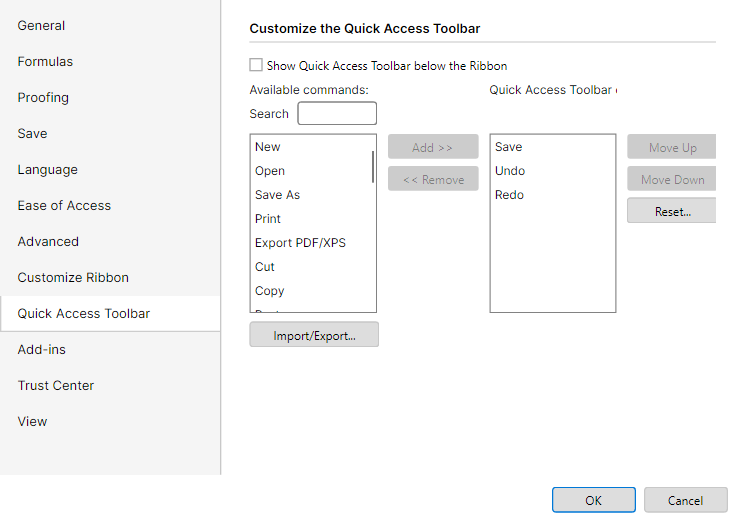
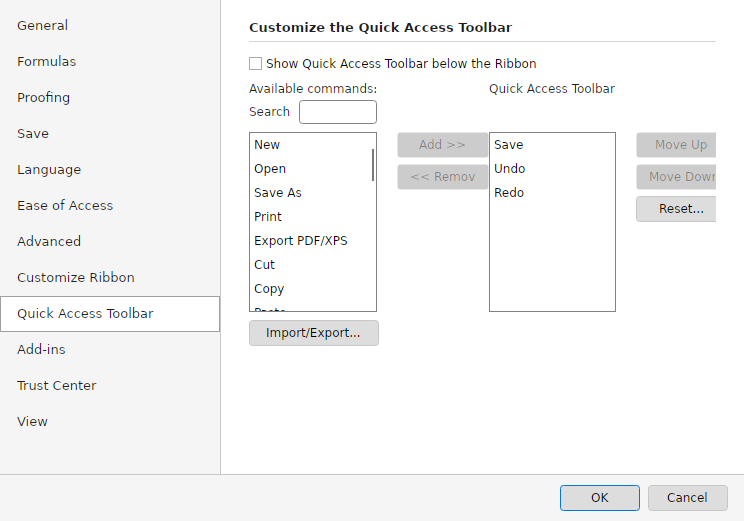
Capture FreeX Options QAT parity evidence

diff --git a/docs/parity/dialog-visual-evidence-summary.md b/docs/parity/dialog-visual-evidence-summary.md
@@ -63,7 +63,6 @@ Outliers are ranked by a deterministic triage score: normalized 32x32 ARGB sampl
 | Surface id | WPF logical size | Avalonia logical size | Raw PNG sizes | Bucket | Evidence flag | Score | Sample delta | Luma delta | Non-bg delta |
 | --- | ---: | ---: | --- | --- | --- | ---: | ---: | ---: | ---: |
 | dialog.PrintPreview | 1120x700 | 1120x700 | 1120x700 px @ 96 DPI vs 1120x700 px @ 96 DPI |  |  | 0.157 | 0.025 | 0.003 | 0.129 |
-| dialog.Options.QuickAccessToolbar | 744.301x521 | 744x521 | 744x521 px @ 96 DPI vs 744x521 px @ 96 DPI |  |  | 0.132 | 0.027 | 0.004 | 0.100 |
 | dialog.PivotTableOptions.Data | 520x500 | 520x500 | 520x500 px @ 96 DPI vs 520x500 px @ 96 DPI |  |  | 0.125 | 0.035 | 0.015 | 0.074 |
 | dialog.SelectionPane | 520x440 | 520x440 | 520x440 px @ 96 DPI vs 520x440 px @ 96 DPI |  |  | 0.122 | 0.019 | 0.006 | 0.097 |
 | dialog.Options.Advanced | 744x521 | 744x521 | 744x521 px @ 96 DPI vs 744x521 px @ 96 DPI |  |  | 0.122 | 0.031 | 0.008 | 0.083 |
@@ -72,6 +71,7 @@ Outliers are ranked by a deterministic triage score: normalized 32x32 ARGB sampl
 | dialog.PivotTableOptions.Display | 520x500 | 520x500 | 520x500 px @ 96 DPI vs 520x500 px @ 96 DPI |  |  | 0.116 | 0.037 | 0.014 | 0.065 |
 | dialog.Options | 744x521 | 744x521 | 744x521 px @ 96 DPI vs 744x521 px @ 96 DPI |  |  | 0.111 | 0.026 | 0.007 | 0.078 |
 | dialog.Options.General | 744x521 | 744x521 | 744x521 px @ 96 DPI vs 744x521 px @ 96 DPI |  |  | 0.111 | 0.026 | 0.007 | 0.078 |
+| dialog.SortOptions | 330x260 | 330x260 | 495x390 px @ 144 DPI vs 330x260 px @ 96 DPI |  |  | 0.111 | 0.053 | 0.010 | 0.047 |
 
 ## Scale-Aware Dimension Mismatch Details
 
@@ -137,7 +137,7 @@ These rows have a DPI-normalized checked-in PNG size that disagrees with the dia
 | dialog.Options.General | dialog.Options.General.png | 744x521 | 744x521 px @ 96 DPI | True | dialog.Options.General.png | 744x521 | 744x521 px @ 96 DPI | True | True | 0.111 |
 | dialog.Options.Language | dialog.Options.Language.png | 744x521 | 744x521 px @ 96 DPI | True | dialog.Options.Language.png | 744x521 | 744x521 px @ 96 DPI | True | True | 0.104 |
 | dialog.Options.Proofing | dialog.Options.Proofing.png | 744.301x521 | 744x521 px @ 96 DPI | True | dialog.Options.Proofing.png | 744x521 | 744x521 px @ 96 DPI | True | True | 0.119 |
-| dialog.Options.QuickAccessToolbar | dialog.Options.QuickAccessToolbar.png | 744.301x521 | 744x521 px @ 96 DPI | True | dialog.Options.QuickAccessToolbar.png | 744x521 | 744x521 px @ 96 DPI | True | True | 0.132 |
+| dialog.Options.QuickAccessToolbar | dialog.Options.QuickAccessToolbar.png | 744.301x521 | 744x521 px @ 96 DPI | True | dialog.Options.QuickAccessToolbar.png | 744x521 | 744x521 px @ 96 DPI | True | True | 0.047 |
 | dialog.Options.Save | dialog.Options.Save.png | 744x521 | 744x521 px @ 96 DPI | True | dialog.Options.Save.png | 744x521 | 744x521 px @ 96 DPI | True | True | 0.105 |
 | dialog.Options.TrustCenter | dialog.Options.TrustCenter.png | 744x521 | 744x521 px @ 96 DPI | True | dialog.Options.TrustCenter.png | 744x521 | 744x521 px @ 96 DPI | True | True | 0.101 |
 | dialog.Options.View | dialog.Options.View.png | 744x521 | 744x521 px @ 96 DPI | True | dialog.Options.View.png | 744x521 | 744x521 px @ 96 DPI | True | True | 0.099 |

diff --git a/docs/parity/freex-options-qat-wave16-20260727.md b/docs/parity/freex-options-qat-wave16-20260727.md
@@ -1,0 +1,38 @@
+# FreeX Options Quick Access Toolbar Wave 16
+
+Date: 2026-07-27
+Branch: `codex/freex-options-qat-wave16-20260727`
+Surface: `dialog.Options.QuickAccessToolbar`
+
+## Scope
+
+Aligned the FreeX Avalonia Quick Access Toolbar Options page to the WPF authority using the existing shared Avalonia compact dialog chrome. The change is limited to FreeX production, FreeX tests, and FreeX dialog evidence.
+
+Implemented alignment includes:
+
+- shared Windows-style dialog font, foreground, background, and descendant control chrome;
+- WPF category-row padding, full border, and selected-row border color;
+- WPF QAT grid geometry: 469 px frame, `128,10,92,10,127,10,92` columns, and 180 px list rows;
+- WPF spacing around add/remove and reorder controls;
+- WPF footer separator, background, padding, 80 px action buttons, and 8 px action spacing;
+- shared Options font applied to list content.
+
+## Evidence
+
+The canonical Avalonia PNG was regenerated from the merged branch in Ubuntu 24.04 Docker/Xvfb using:
+
+`FreeX --parity-capture ... --parity-capture-surface dialog.Options.QuickAccessToolbar`
+
+Both canonical frames are 744x521 pixels. The regenerated comparison changed the target triage score from **0.132476** to **0.046918** (a **64.6% reduction**). `sampleMeanDelta` changed from `0.026894` to `0.019832`; `lumaDelta` from `0.004440` to `0.001174`; `nonBackgroundDelta` from `0.100334` to `0.025104`.
+
+## Verification
+
+- Focused FreeX Services tests: **33 passed, 0 failed**.
+- Avalonia Release build: **0 warnings, 0 errors**.
+- Linux self-contained `linux-x64` publish: succeeded.
+- Docker/Xvfb target capture: succeeded; PNG is nonblank and exact-size.
+- Evidence summary check: `powershell.exe -NoProfile -ExecutionPolicy Bypass -File tools/Generate-DialogVisualEvidenceSummary.ps1 -Check`.
+
+## Residuals
+
+The remaining score is primarily native Avalonia versus WPF rasterization and control-rendering variance, including font anti-aliasing, list scrollbar treatment, and a small amount of text/control pixel drift. Functional QAT interactions remain implemented through the existing add/remove, reorder, reset, import, export, search, keyboard, and double-click handlers; this wave did not change those planners or handlers.
